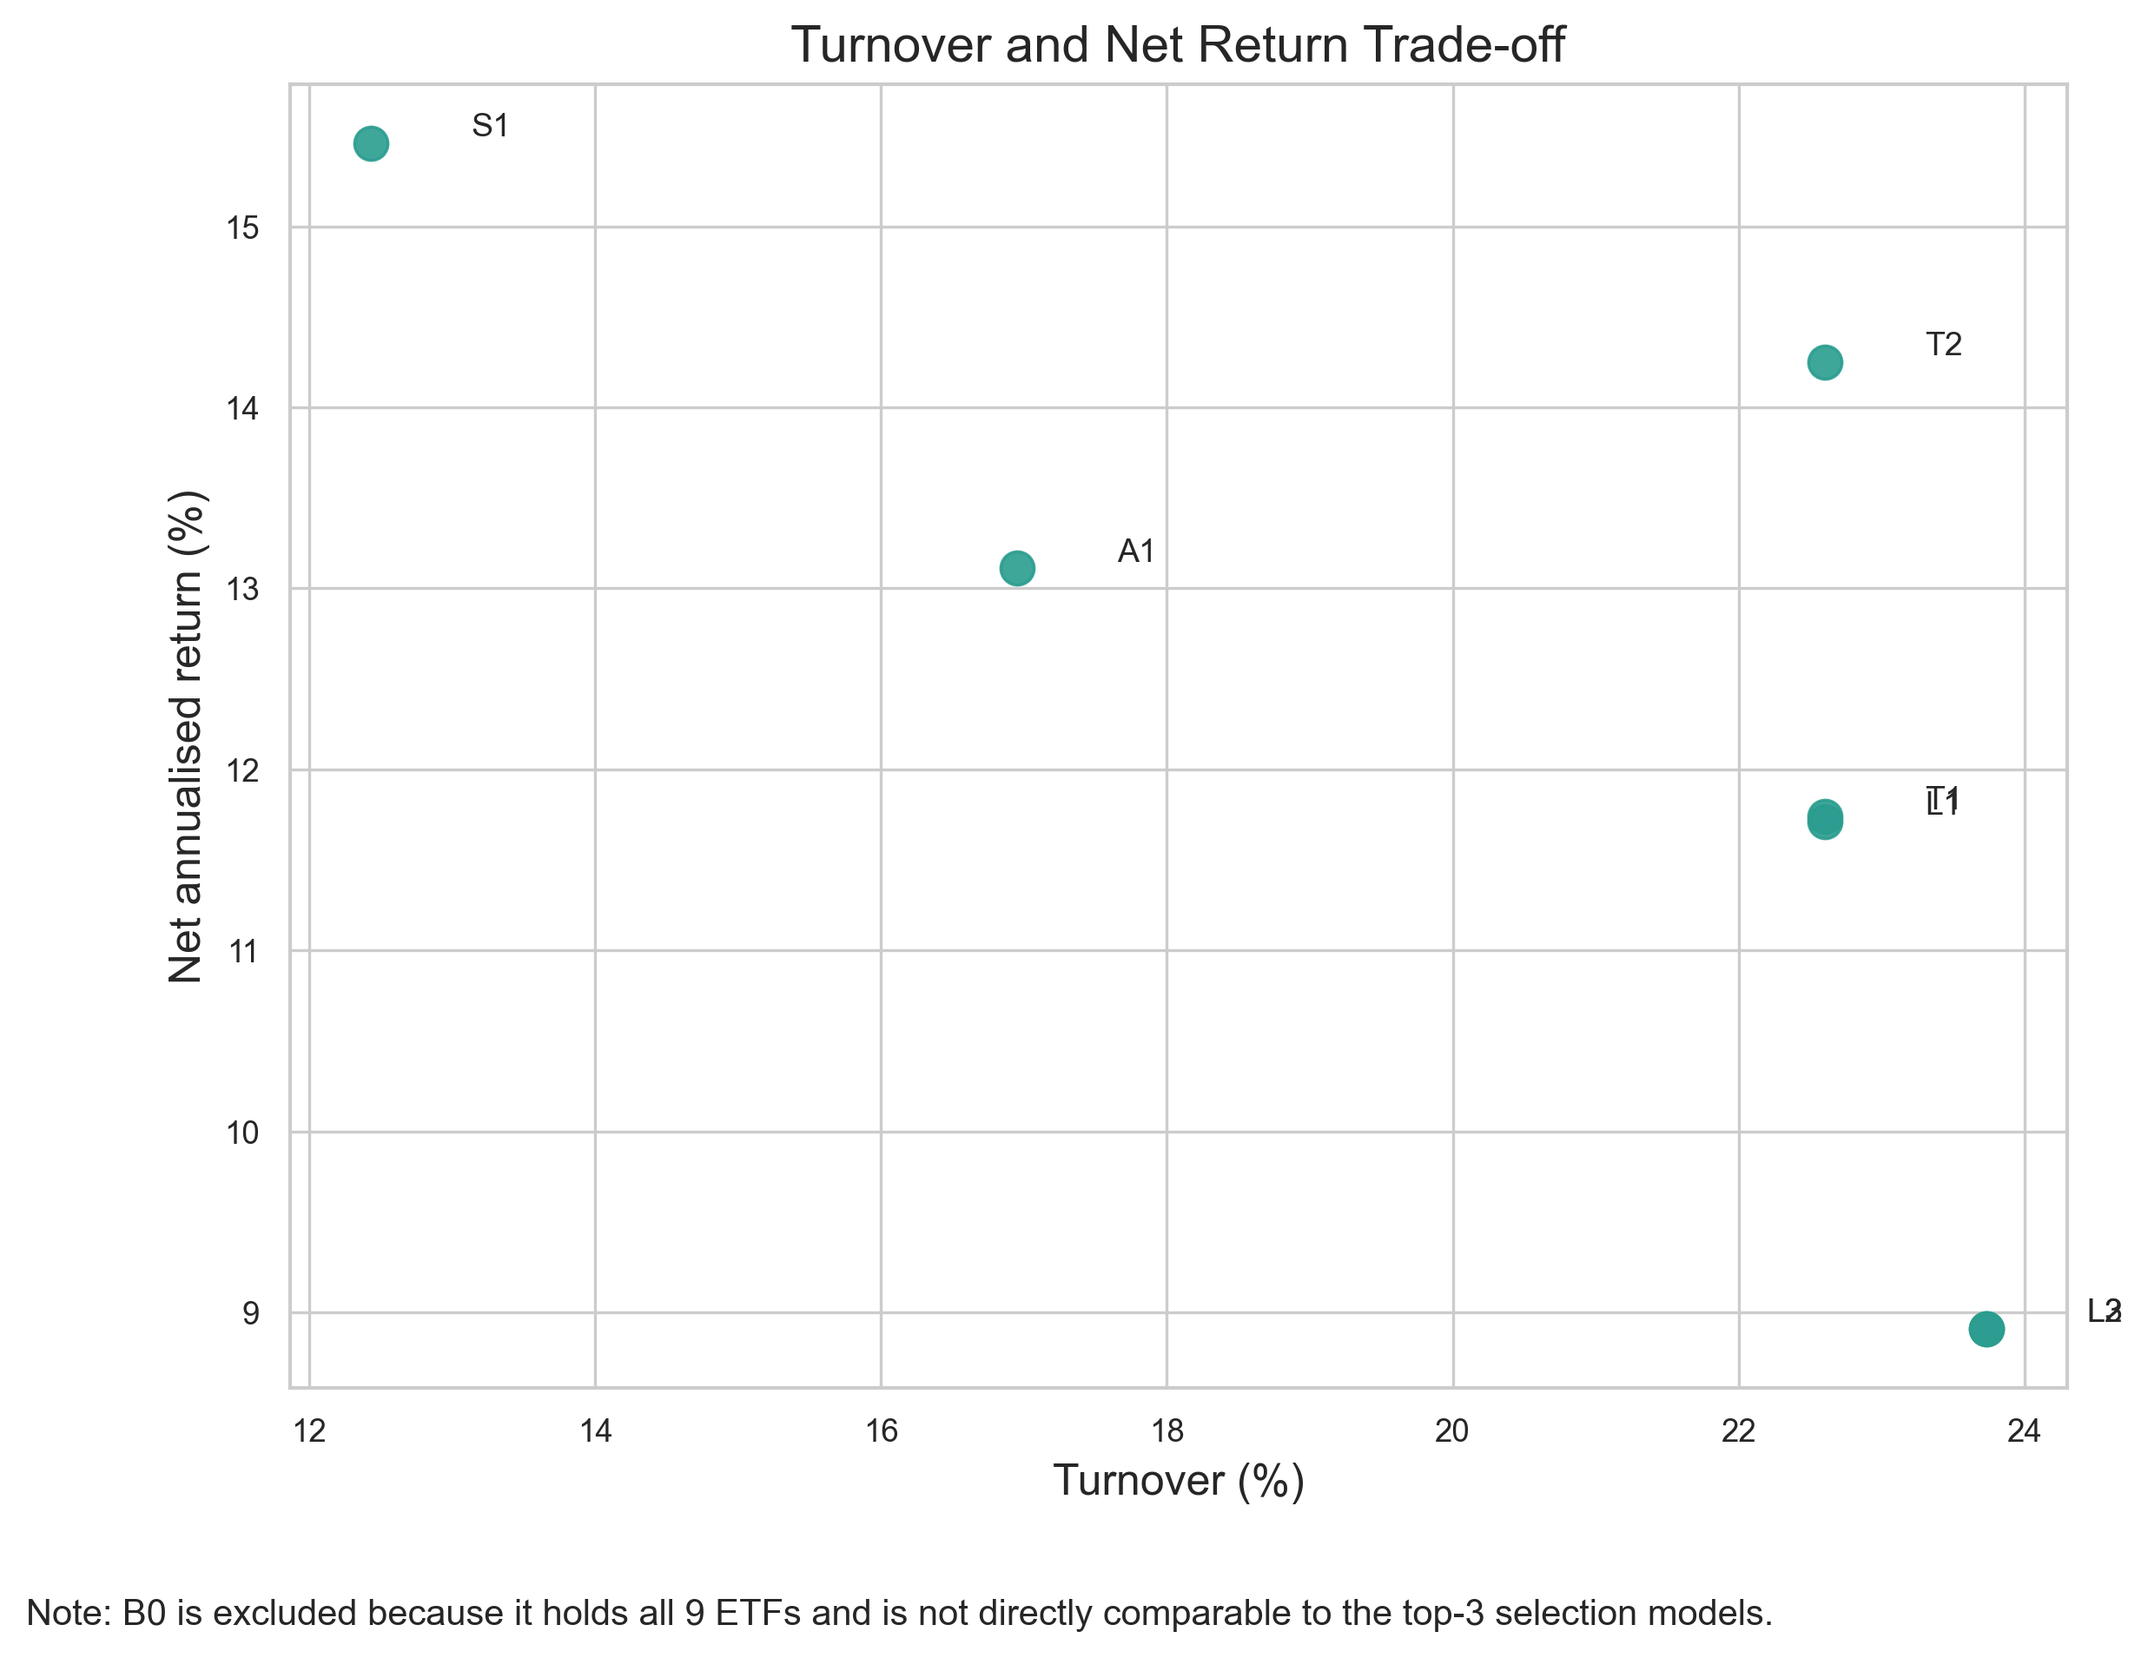
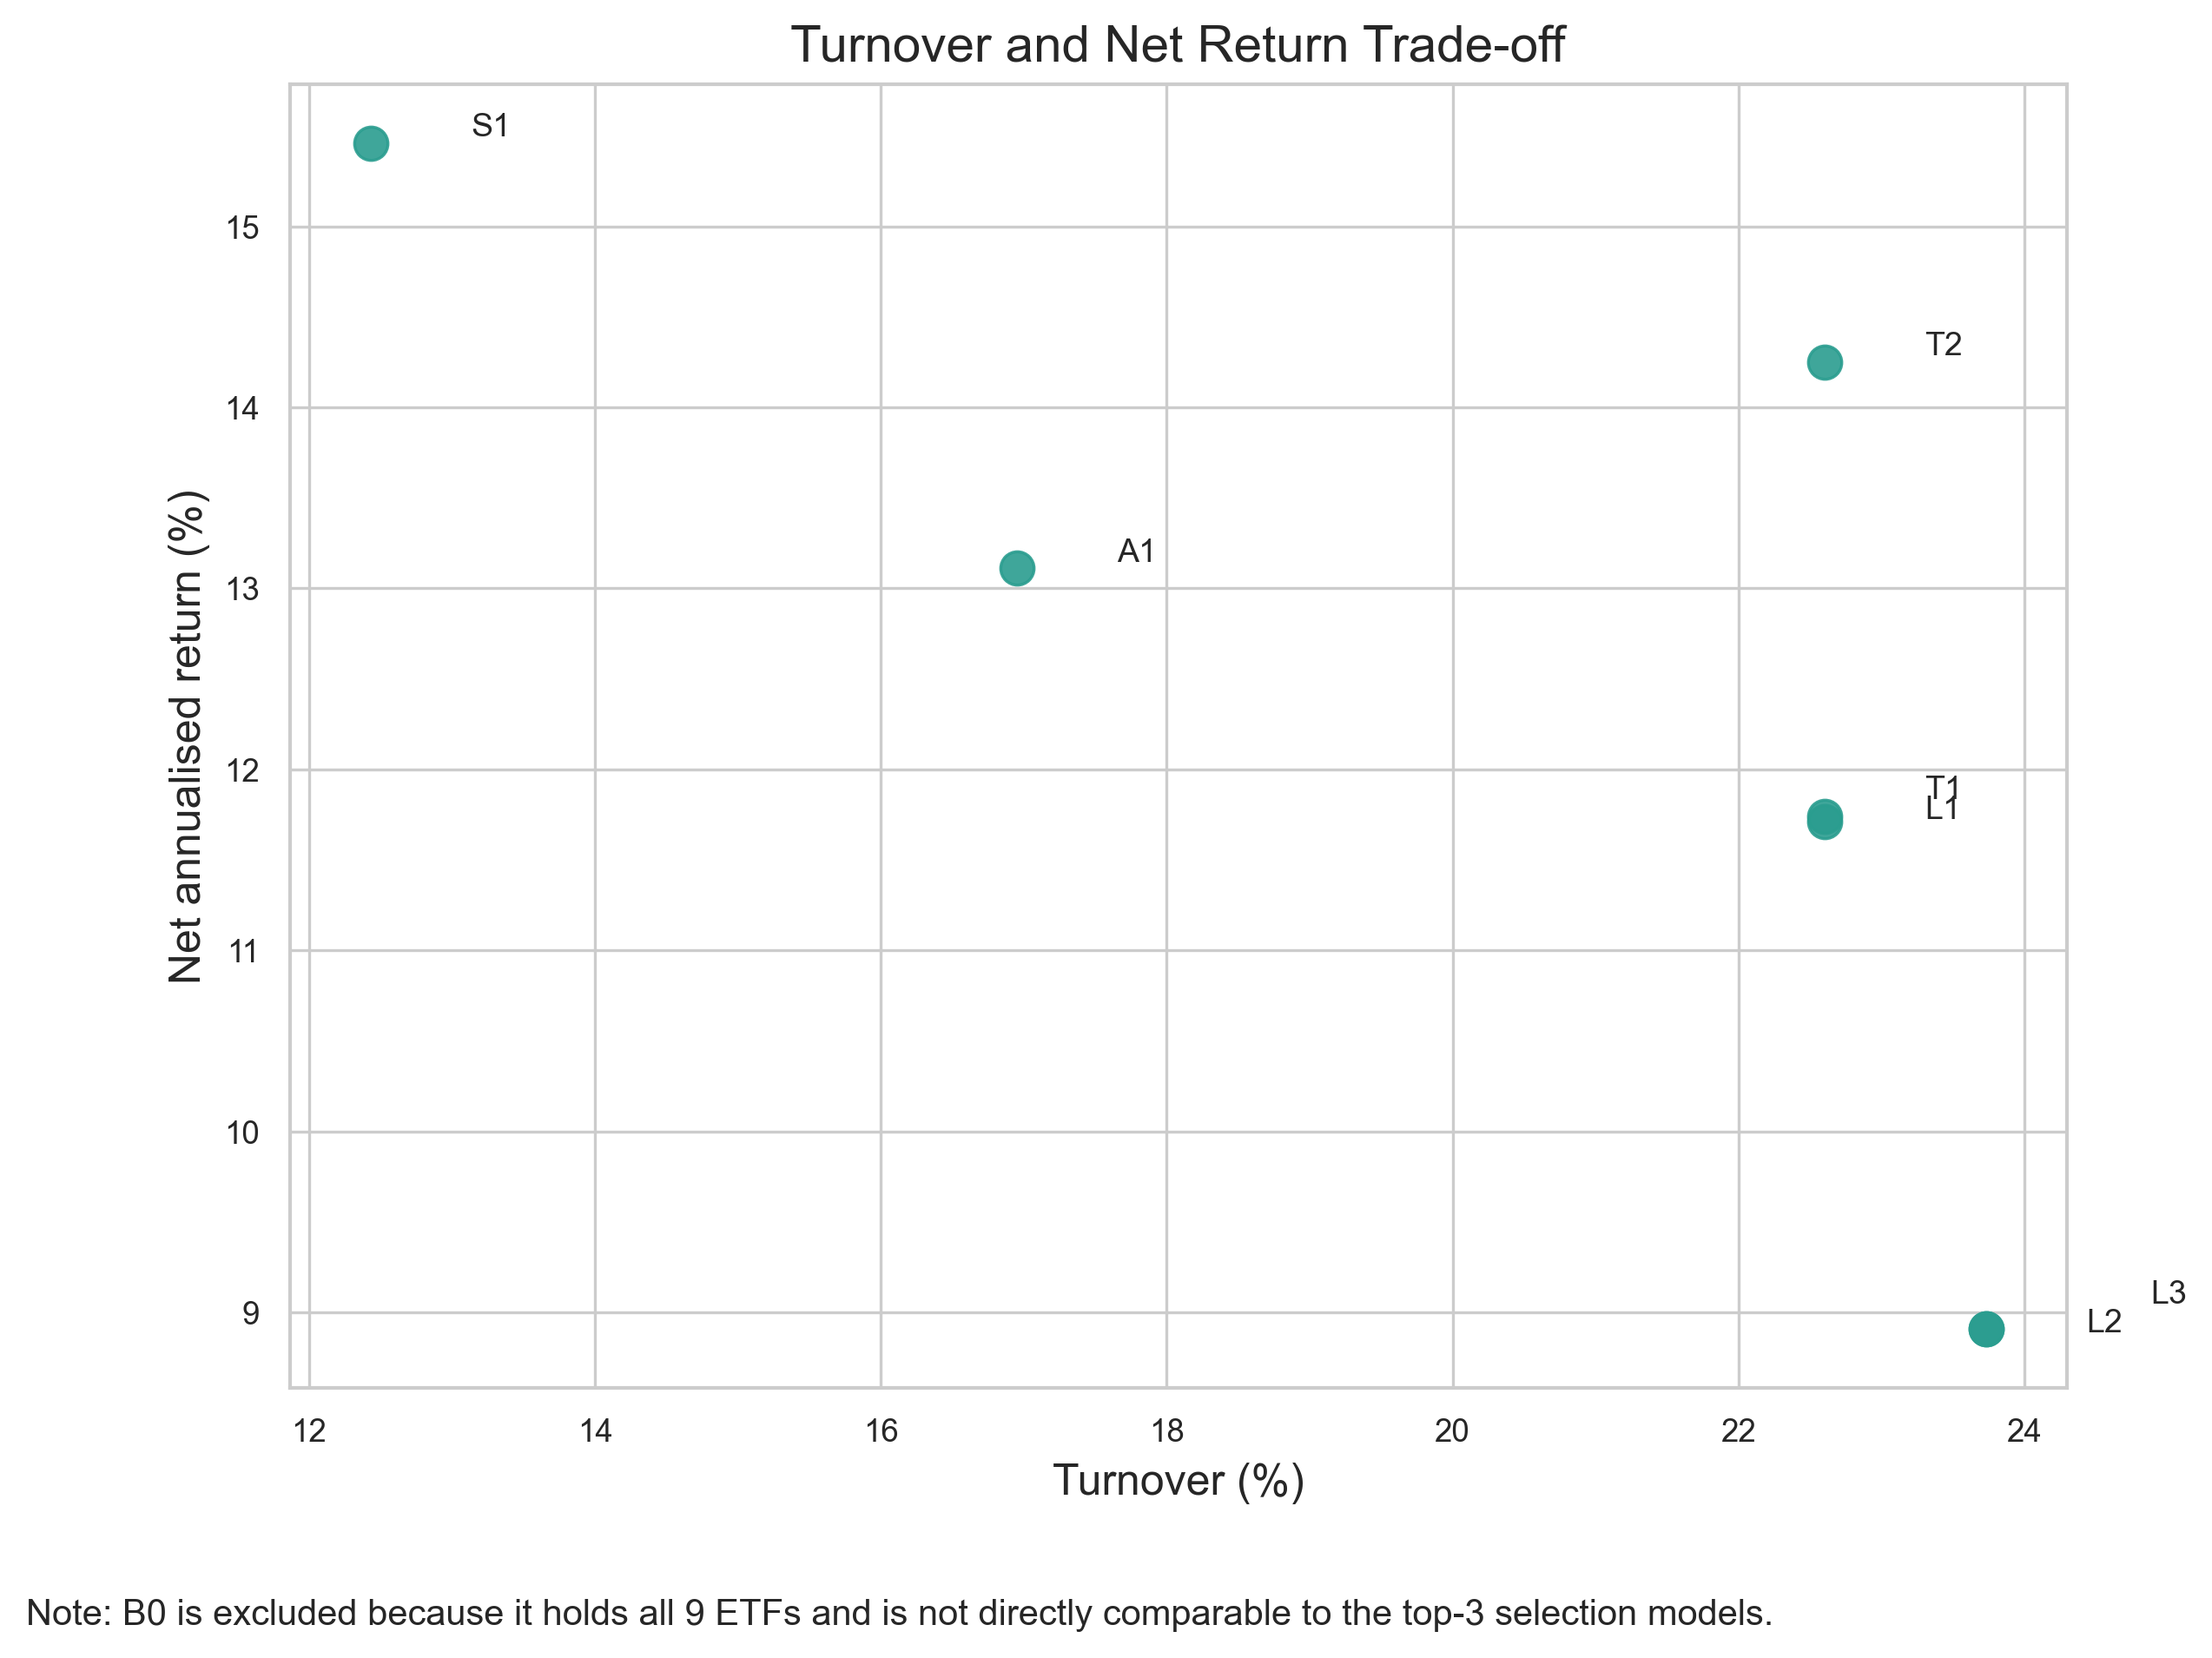
Clean up repository docs and reporting outputs

diff --git a/scripts/generate_report_assets.py b/scripts/generate_report_assets.py
@@ -2438,11 +2438,21 @@ def make_figure_5_turnover_vs_net_return_scatter() -> None:
     plot_frame["turnover_pct"] = plot_frame["turnover"] * 100.0
     plot_frame["net_return_pct"] = plot_frame["net_return_after_costs"] * 100.0
     plot_frame["model_code"] = plot_frame["model"].map(MODEL_CODE_LABELS)
+    label_offsets = {
+        "S1": (0.70, 0.04),
+        "A1": (0.70, 0.04),
+        "T2": (0.70, 0.04),
+        "L1": (0.70, 0.02),
+        "T1": (0.70, 0.10),
+        "L2": (0.70, -0.02),
+        "L3": (1.15, 0.14),
+    }
 
     plt.figure(figsize=(8.8, 6.5))
     plt.scatter(plot_frame["turnover_pct"], plot_frame["net_return_pct"], color="#2a9d8f", s=85, alpha=0.9)
     for _, row in plot_frame.iterrows():
-        plt.text(row["turnover_pct"] + 0.7, row["net_return_pct"] + 0.04, row["model_code"], fontsize=9)
+        dx, dy = label_offsets.get(row["model_code"], (0.7, 0.04))
+        plt.text(row["turnover_pct"] + dx, row["net_return_pct"] + dy, row["model_code"], fontsize=9)
     plt.title("Turnover and Net Return Trade-off")
     plt.xlabel("Turnover (%)")
     plt.ylabel("Net annualised return (%)")
@@ -2453,7 +2463,7 @@ def make_figure_5_turnover_vs_net_return_scatter() -> None:
         ha="left",
         fontsize=10,
     )
-    plt.savefig(FIGURES_DIR / "figure_5_turnover_vs_net_return_tradeoff.png")
+    plt.savefig(FIGURES_DIR / "figure_5_turnover_vs_net_return_tradeoff.png", dpi=300, bbox_inches="tight")
     plt.close()
 
 

diff --git a/README.md b/README.md
@@ -1,56 +1,59 @@
 # Adaptive Weighting Engine
 
-Research codebase for a dissertation on monthly U.S. sector ETF selection under a retained three-signal design, common shrinkage discipline, and turnover-aware execution.
+Research pipeline supporting the MSc dissertation *Adaptive and Machine-Learning Signal Weighting for Sector ETF Selection: Evidence on Implementable Performance*.
 
-## Current Design
+This repository reproduces the final empirical workflow for monthly U.S. sector ETF selection. The dissertation compares benchmark, static, adaptive, and machine-learning weighting rules under the same retained signals, shrinkage rule, execution convention, and transaction-cost treatment.
 
-The current retained design is:
+## Final Design
 
-- Universe: 9 U.S. sector ETFs
-  - `XLB`, `XLE`, `XLF`, `XLI`, `XLK`, `XLP`, `XLU`, `XLV`, `XLY`
-- Market benchmark: `SPY`
+- Universe: `XLB`, `XLE`, `XLF`, `XLI`, `XLK`, `XLP`, `XLU`, `XLV`, `XLY`
+- Benchmark market series: `SPY`
+- Regime context: `VIX`
 - Frequency: monthly cross-sectional ranking
-- Retained signal block:
-  - `12-1` residual momentum
-  - winsorised Amihud illiquidity
-  - idiosyncratic volatility relative to `SPY`
-- Model families:
-  - `B0` equal-weight benchmark
-  - `S1` static equal-dimension model
-  - `A1` rolling-IC adaptive model
-  - `L1` Ridge IC
-  - `L2` Lasso IC
-  - `L3` Elastic Net IC
-  - `T1` Random Forest IC
-  - `T2` XGBoost IC
-- Common shrinkage:
-  - selected under ordered validation
-  - retained setting: `0.4` baseline weight / `0.6` model-implied IC weight
-- Retained execution rule:
-  - top-3 portfolio
-  - Top-6 holding-buffer boundary
 
-The machine-learning layer predicts dimension-level signal usefulness, not ETF returns directly.
+Retained signal block:
+
+- `12-1` residual momentum relative to `SPY`
+- expanding-winsorised Amihud illiquidity
+- idiosyncratic volatility relative to `SPY`
+
+Model set:
+
+- `B0` naive equal-weight benchmark
+- `S1` static equal-dimension model
+- `A1` rolling-IC adaptive model
+- `L1` Ridge IC
+- `L2` Lasso IC
+- `L3` Elastic Net IC
+- `T1` Random Forest IC
+- `T2` XGBoost IC
+
+Retained dissertation settings:
+
+- common shrinkage: `0.4` neutral-prior weight + `0.6` model-implied weight
+- main execution rule: Top-3 portfolio with Top-6 holding buffer
+- primary holdout: `2021-07-31` to `2026-05-31`
+
+Note: `scripts/run_backtest.py` retains the legacy `0.5 / 0.5` defaults for compatibility; the dissertation results use the validation-selected `0.4 / 0.6` setting.
 
 ## Repository Layout
 
 ```text
-config/                 Project configuration
-data/raw/               Downloaded raw market data
+config/                 Configuration
+data/raw/               Downloaded raw ETF, SPY, and VIX data
 data/processed/         Processed monthly and daily panels
-outputs/backtests/      Backtest-level intermediate and model outputs
-outputs/figures/        Dissertation-ready figures
-outputs/tables/         Dissertation-ready tables
-scripts/                Reproducible entry-point scripts
+outputs/backtests/      Backtest outputs
+outputs/figures/        Dissertation figures
+outputs/tables/         Dissertation tables
+scripts/                Pipeline entry points
 src/adaptive_weighting/ Core research package
-tests/                  Unit tests for core logic
+tests/                  Tests
 ```
 
-## Setup
+## Environment
 
-This repository does not require Poetry for the main research pipeline. The scripts below can be run directly in a standard Python environment.
-
-Use Python `3.10` or newer. The project metadata in `pyproject.toml` requires `>=3.10`, and `pytest` under Poetry will fail if the active interpreter is still `3.9.x`.
+Use Python `3.10` or newer.
+The same version requirement applies to `pytest`.
 
 ```bash
 python3 -m venv .venv
@@ -58,116 +61,15 @@ source .venv/bin/activate
 pip install -r requirements.txt
 ```
 
-## Raw Data Download
+## Pipeline
+
+If starting from a clean checkout:
 
 ```bash
 python3 scripts/download_data.py
 ```
 
-This populates `data/raw/` with ETF, `SPY`, and `VIX` data.
-
-## Execution Sequence
-
-Run the scripts below in order to rebuild the current retained research pipeline.
-
-### 1. Build processed panels
-
-```bash
-python3 scripts/build_features.py
-```
-
-Outputs:
-
-- `data/processed/monthly_factor_panel.csv`
-- `data/processed/daily_spread_panel.csv`
-
-### 2. Generate retained-dimension diagnostics
-
-```bash
-python3 scripts/generate_momentum_diagnostics.py
-python3 scripts/generate_liquidity_diagnostics.py
-python3 scripts/generate_volatility_diagnostics.py
-```
-
-These scripts generate the retained proxy-comparison tables and figures used in the methodology and appendix material.
-
-### 3. Run common shrinkage selection
-
-```bash
-python3 scripts/run_common_shrinkage_selection.py
-```
-
-Key outputs:
-
-- `outputs/tables/table_sh1_common_shrinkage_validation_grid.csv`
-- `outputs/tables/table_sh2_common_shrinkage_selection_summary.csv`
-- `outputs/tables/table_sh3_common_shrinkage_test_comparison.csv`
-- `outputs/tables/table_sh4_common_shrinkage_selection_conclusion.csv`
-
-### 4. Run repeated walk-forward validation
-
-```bash
-python3 scripts/run_repeated_walkforward_family_comparison.py
-```
-
-Key outputs:
-
-- `outputs/tables/table_wf1_repeated_walkforward_fold_selection.csv`
-- `outputs/tables/table_wf2_repeated_walkforward_test_results.csv`
-- `outputs/tables/table_wf3_repeated_walkforward_family_comparison.csv`
-
-### 5. Run turnover-framework comparison
-
-```bash
-python3 scripts/run_turnover_framework_backtests.py
-```
-
-This generates the framework-level backtest artifacts used for:
-
-- turnover framework comparison
-- holding-buffer sensitivity
-- Appendix F execution diagnostics
-
-### 6. Generate contribution and design figures
-
-```bash
-python3 scripts/generate_factor_contribution_assets.py
-```
-
-### 7. Generate Appendix I liquidity-cost evidence
-
-```bash
-python3 scripts/generate_liquidity_cost_exploratory.py
-```
-
-This script generates the final Appendix I diagnostic assets. It compares two execution settings:
-
-- `F1`: baseline selections with no additional turnover control
-- `F3`: retained common-shrinkage Top-6 holding-buffer traded legs
-
-The script writes:
-
-- `outputs/tables/table_i1_execution_setting_liquidity_linkage.csv`
-- `outputs/tables/table_i2_traded_leg_model_summary.csv`
-- `outputs/figures/figure_i1_amihud_vs_effective_cost_by_setting.png`
-- `outputs/figures/figure_i2_amihud_quintile_unit_cost_by_setting.png`
-
-The F3 traded-leg diagnostic is rebuilt from `outputs/backtests/baseline_equal_weight_benchmark_selections.csv`, so it can be reproduced from the backtest outputs without relying on `data/processed/monthly_factor_panel.csv`.
-
-### 8. Compile report tables and figures
-
-```bash
-python3 scripts/generate_report_assets.py
-```
-
-This is the final reporting step for the current pipeline. It reads from `outputs/backtests/` and writes cleaned presentation-ready files to:
-
-- `outputs/tables/`
-- `outputs/figures/`
-
-## Full Reproduction
-
-For a complete end-to-end rebuild of the current retained design, run:
+Then run:
 
 ```bash
 python3 scripts/build_features.py
@@ -182,13 +84,17 @@ python3 scripts/generate_liquidity_cost_exploratory.py
 python3 scripts/generate_report_assets.py
 ```
 
-This sequence rebuilds:
+`scripts/run_backtest.py` remains available only as a legacy compatibility path for the older generic export flow, which reads config-level `0.5 / 0.5` shrinkage defaults. The canonical dissertation pipeline instead reselects and applies the retained `0.4 / 0.6` setting through `scripts/run_common_shrinkage_selection.py`, so this file is kept for backward compatibility.
 
-- processed monthly and daily panels
-- retained proxy-comparison diagnostics
-- common shrinkage selection outputs
-- repeated walk-forward evidence
-- turnover-framework and holding-buffer sensitivity outputs
-- contribution, concentration, and model-weight figures
-- Appendix I liquidity-cost evidence
-- dissertation-ready tables and figures in `outputs/tables/` and `outputs/figures/`
+## Main Outputs
+
+- `run_common_shrinkage_selection.py`
+  - common shrinkage validation and retained setting
+- `run_repeated_walkforward_family_comparison.py`
+  - repeated walk-forward robustness results
+- `run_turnover_framework_backtests.py`
+  - execution-framework comparison and holding-buffer sensitivity
+- `generate_report_assets.py`
+  - dissertation-ready figures and tables
+
+Main retained-result reporting uses the `common_shrinkage_holding_buffer_top6_*` backtest outputs. Framework and holding-buffer comparison outputs come from the `baseline_*`, `pta_*`, and `holding_buffer_top{4,5,6}_*` backtests.
